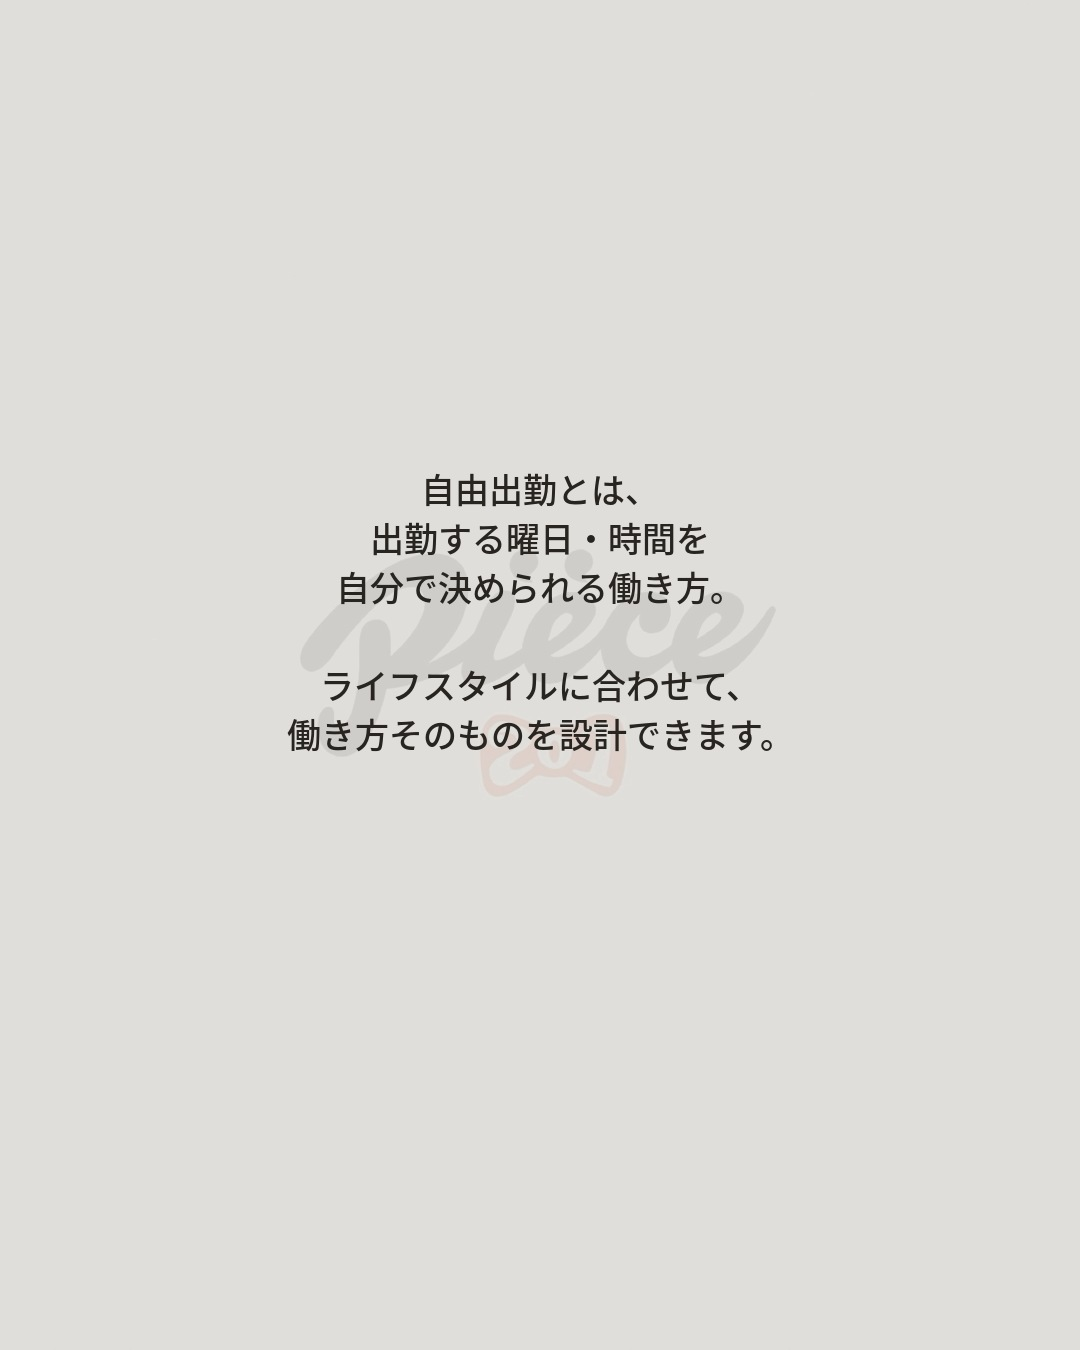
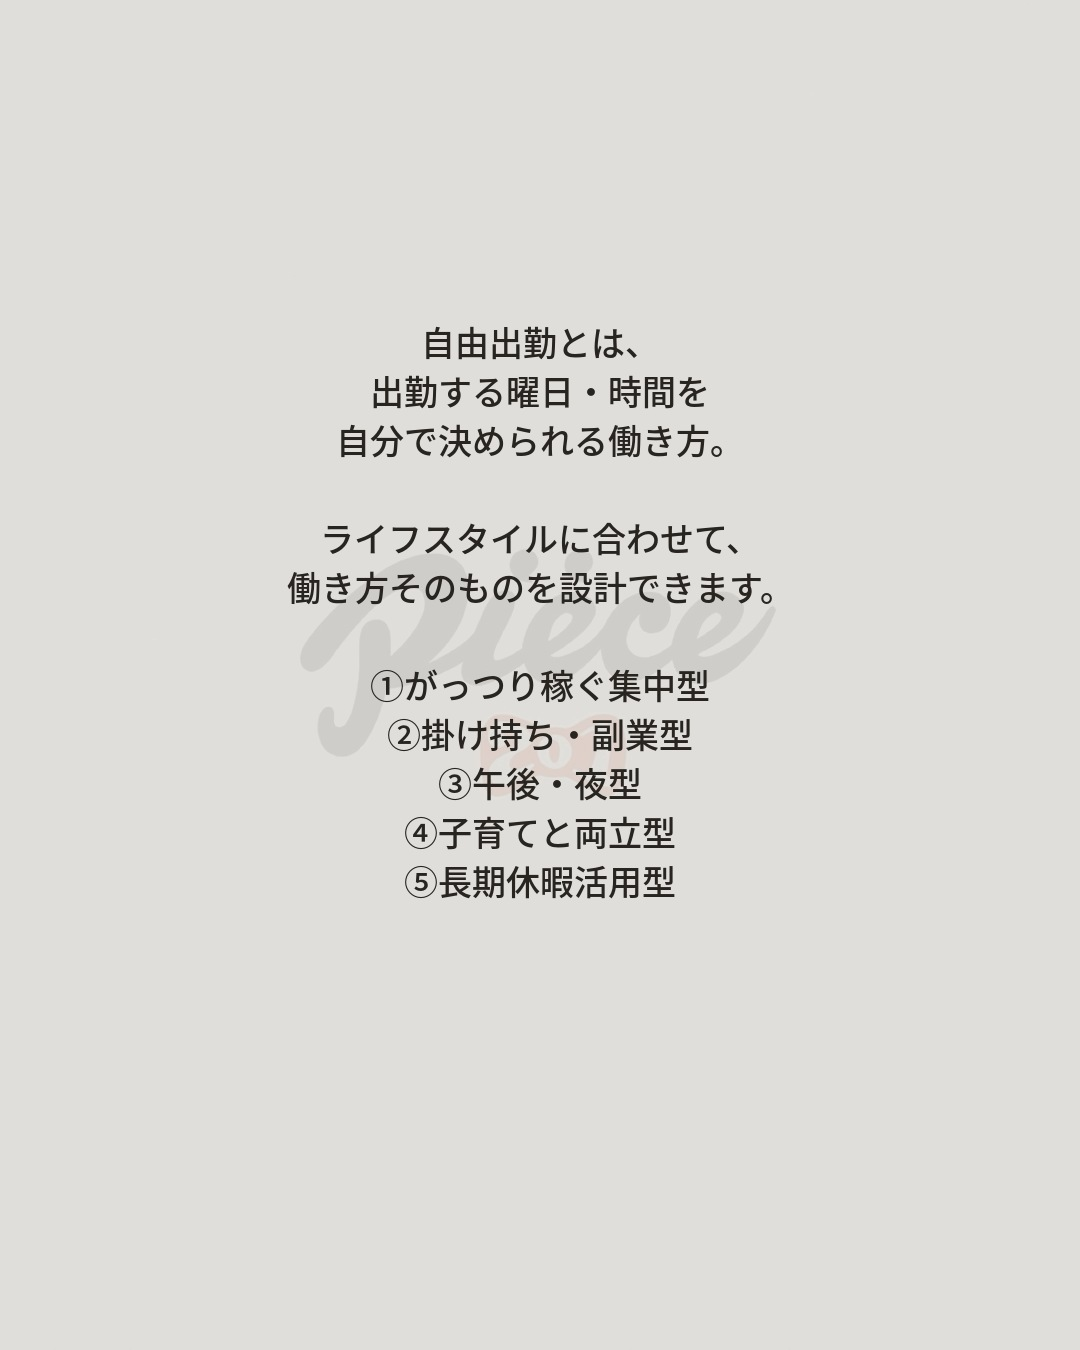
Finalize post9 as 5 patterns with a TOC intro and merged closing slide
Reworked from an initial 3-pattern draft after live discussion:
expanded to 5 work-style patterns (集中型/副業型/夜型/子育て両立型/
長期休暇活用型), added a table-of-contents list to both the intro
slide and the caption's intro paragraph, and merged the summary and
closing/DM slides into one per the new standing house rule. Recorded
both the TOC and merged-closing-slide conventions in the handover doc
for future posts.

Claude-Session: https://claude.ai/code/session_01Wzn5mgSD8aav1DWZhXqfkC

Changed region(s): [[0.275, 0.2489, 0.7028, 0.4667], [0.2444, 0.4978, 0.7028, 0.6844]]

diff --git a/scripts/generate_all_slides.py b/scripts/generate_all_slides.py
@@ -483,35 +483,37 @@ def build_post9(materials_dir=SRC, out_dir=OUT):
 
     # 背景生成
     make_cover_bg(beige_path, f"{out_dir}/post9_bg_cover.jpg")
-    for i in range(2, 8):
+    for i in range(2, 9):
         make_logo_bg(logo_path, base_shade=224, seed=i + 300,
                      out_path=f"{out_dir}/post9_bg_slide{i}.jpg")
 
     # 1枚目: 表紙
     draw_cover_slide(
         f"{out_dir}/post9_bg_cover.jpg", f"{out_dir}/post9_final_slide1.jpg",
-        ["自由出勤の働き方", "3つのリアル例"],
+        ["自由出勤の働き方", "5つのリアル例"],
         subtitle="piece201 / Nakameguro, Tokyo"
     )
 
-    # 2枚目: 導入
+    # 2枚目: 導入+目次
     draw_title_body_slide(
         f"{out_dir}/post9_bg_slide2.jpg", f"{out_dir}/post9_final_slide2.jpg",
         title=None,
         body_lines=[
             "自由出勤とは、", "出勤する曜日・時間を", "自分で決められる働き方。", "",
-            "ライフスタイルに合わせて、", "働き方そのものを設計できます。"
+            "ライフスタイルに合わせて、", "働き方そのものを設計できます。", "",
+            "①がっつり稼ぐ集中型", "②掛け持ち・副業型", "③午後・夜型",
+            "④子育てと両立型", "⑤長期休暇活用型"
         ],
         body_color=DARK
     )
 
-    # 3枚目: ①子育てと両立型
+    # 3枚目: ①がっつり稼ぐ集中型
     draw_title_body_slide(
         f"{out_dir}/post9_bg_slide3.jpg", f"{out_dir}/post9_final_slide3.jpg",
-        title="①子育てと両立型",
+        title="①がっつり稼ぐ集中型",
         body_lines=[
-            "月・水・金 9:00-13:00 出勤", "火・木・土日 お休み", "",
-            "保育園に預けている時間だけ働き、", "それ以外は家族の時間にあてるスタイル。"
+            "週6日、フルタイムで", "稼働するスタイル。", "",
+            "稼働日数を増やして、", "短期間で売上を伸ばしたい人向け。"
         ]
     )
 
@@ -520,38 +522,48 @@ def build_post9(materials_dir=SRC, out_dir=OUT):
         f"{out_dir}/post9_bg_slide4.jpg", f"{out_dir}/post9_final_slide4.jpg",
         title="②掛け持ち・副業型",
         body_lines=[
-            "月・火・木・金 出勤", "水 他サロンで勤務", "土日 お休み", "",
-            "複数の収入源を組み合わせて、", "1つのサロンに依存しないスタイル。"
+            "複数のサロンや副業と", "組み合わせるパターン。", "",
+            "週末だけ稼働する、", "週3日だけ固定で出勤するなど、",
+            "他の予定と組み合わせやすいのも", "自由出勤ならでは。"
         ]
     )
 
-    # 5枚目: ③がっつり稼ぐ集中型
+    # 5枚目: ③午後・夜型
     draw_title_body_slide(
         f"{out_dir}/post9_bg_slide5.jpg", f"{out_dir}/post9_final_slide5.jpg",
-        title="③がっつり稼ぐ集中型",
+        title="③午後・夜型",
         body_lines=[
-            "月〜土 10:00-19:00 出勤", "日 お休み", "",
-            "稼働日数を増やして、", "短期間で売上を伸ばしたい人向け。"
+            "朝はゆっくり、", "午後から夜にかけて", "稼働するスタイル。", "",
+            "自分の生活リズムに合わせて", "働く時間帯を選べます。"
         ]
     )
 
-    # 6枚目: まとめ
+    # 6枚目: ④子育てと両立型
     draw_title_body_slide(
         f"{out_dir}/post9_bg_slide6.jpg", f"{out_dir}/post9_final_slide6.jpg",
-        title=None,
+        title="④子育てと両立型",
         body_lines=[
-            "どのパターンが正解、", "というものはありません。", "",
-            "自分の生活・目標に合わせて", "働き方を設計できるのが、",
-            "自由出勤の一番の魅力です。"
-        ],
-        body_color=DARK
+            "月・水・金 9:00-13:00 出勤", "火・木・土日 お休み", "",
+            "保育園に預けている時間だけ働き、", "それ以外は家族の時間にあてるスタイル。"
+        ]
     )
 
-    # 7枚目: 締め
-    draw_closing_slide(
+    # 7枚目: ⑤長期休暇活用型
+    draw_title_body_slide(
         f"{out_dir}/post9_bg_slide7.jpg", f"{out_dir}/post9_final_slide7.jpg",
-        lead_lines=["自分に合った働き方、", "一緒に考えてみませんか。"],
-        body_lines=["出勤日数や時間帯の相談も", "気軽にしてください。"],
+        title="⑤長期休暇活用型",
+        body_lines=[
+            "稼働をまとめて調整すれば、", "1ヶ月休んで海外に研修に行ったり、",
+            "長期旅行を楽しんだりすることも可能。", "",
+            "決まった有給日数に縛られない、", "フリーランスならではの自由な休み方。"
+        ]
+    )
+
+    # 8枚目: まとめ+締め(1枚に統合)
+    draw_closing_slide(
+        f"{out_dir}/post9_bg_slide8.jpg", f"{out_dir}/post9_final_slide8.jpg",
+        lead_lines=["どのパターンが正解、", "というものはありません。"],
+        body_lines=["自分の生活に合わせて、", "働き方を設計できるのが一番の魅力です。"],
         dm_line="気になる方はDMで"
     )
 

diff --git a/docs/handover.md b/docs/handover.md
@@ -143,6 +143,8 @@
 - 縦位置は各行の高さを計算して積み上げる方式で決定する。手動の決め打ち数値による配置は禁止（重なり・ズレの原因になったため）
 - 1枚目の対比構造（例：雇用 VS フリーランス）は各要素を均等な間隔で配置する
 - スライド構成：1枚目＝ベージュレザーテクスチャ写真または店内写真、2枚目以降＝ロゴウォーターマーク入りグレー背景
+- **「まとめ」と「締め（DM CTA）」は1枚にまとめる**（2026-09-07以降の方針。別々の2枚にしない）
+- 複数の項目（①②③...）を扱う投稿では、導入スライドの最後に項目名だけを並べた簡易目次を入れる（キャプション側の導入文にも同じ目次を入れる）
 - **絵文字は画像内に描画すると「✕」の文字化けを起こすため使用しない**（フォントに絵文字グリフが含まれていないため）。キャプション本文中の絵文字はInstagram側で正常表示されるため問題なく使用する
 
 ### キャプション作成ルール
@@ -449,24 +451,38 @@ piece201では、こうした手続き面も一緒に考えながらサポート
 ```
 ※piece201は本文中で名指ししていないが、①〜⑤の各項目はpiece201が実際に満たしている条件（面貸し・新規集客なしの完全歩合70%・有名店経験のあるスタイリスト在籍・中目黒駅徒歩1分・税務社会保険サポートあり）に自然と重なる書き方にしている（10章の方針に基づく）。
 
-### 9本目：自由出勤の働き方、3つのリアル例（Claude Codeで新規作成・画像・キャプション完成、投稿は未実施）
+### 9本目：自由出勤の働き方、5つのリアル例（Claude Codeで新規作成・画像・キャプション完成、投稿は未実施・確認待ち）
 ```
-【自由出勤の働き方、3つのリアル例📅】
+【自由出勤の働き方、5つのリアル例📅】
 
 自由出勤とは、出勤する曜日・時間を自分で決められる働き方。
 会社員のような固定シフトはなく、ライフスタイルに合わせて働き方そのものを設計できます。
 
-①子育てと両立型
-月・水・金の午前中(9:00-13:00)に集中して出勤。
-保育園に預けている時間だけ働き、それ以外は家族の時間にあてるスタイル。
+①がっつり稼ぐ集中型
+②掛け持ち・副業型
+③午後・夜型
+④子育てと両立型
+⑤長期休暇活用型
+
+①がっつり稼ぐ集中型
+週6日、フルタイムで稼働するスタイル。
+稼働日数を増やして、短期間で売上を伸ばしたい人向け。
 
 ②掛け持ち・副業型
 複数のサロンや副業と組み合わせるパターン。
-収入源を分散できるので、1つのサロンに依存しないリスク管理にもなります。
+週末だけ稼働する、週3日だけ固定で出勤するなど、他の予定と組み合わせやすいのも自由出勤ならでは。
 
-③がっつり稼ぐ集中型
-週6日、フルタイムで稼働するスタイル。
-稼働日数を増やして、短期間で売上を伸ばしたい人向け。
+③午後・夜型
+朝はゆっくり、午後から夜にかけて稼働するスタイル。
+自分の生活リズムに合わせて働く時間帯を選べます。
+
+④子育てと両立型
+月・水・金の午前中(9:00-13:00)に集中して出勤。
+保育園に預けている時間だけ働き、それ以外は家族の時間にあてるスタイル。
+
+⑤長期休暇活用型
+稼働をまとめて調整すれば、1ヶ月休んで海外に研修に行ったり、長期旅行を楽しんだりすることも可能。
+決まった有給日数に縛られない、フリーランスならではの自由な休み方。
 
 どのパターンが正解、というものはありません。
 自分の生活・目標に合わせて働き方を設計できるのが、自由出勤の一番の魅力です。
@@ -493,7 +509,7 @@ piece201では、こうした手続き面も一緒に考えながらサポート
 - **6本目（7枚）**：表紙／導入／①開業届／②所得税確定申告／③経費とは／④知らないと損すること／締め
 - **7本目（8枚）**：表紙／導入／①美容師国保組合／②国民健康保険／③社会保険／国民年金の手続き／国民年金の金額・将来性／締め
 - **8本目（8枚）**：表紙／導入／①契約内容の明確さ／②集客サポートの有無／③技術レベル・雰囲気／④設備・立地／⑤税務・保険サポート／締め
-- **9本目（7枚）**：表紙／導入／①子育てと両立型／②掛け持ち・副業型／③がっつり稼ぐ集中型／まとめ／締め
+- **9本目（8枚）**：表紙／導入+目次／①がっつり稼ぐ集中型／②掛け持ち・副業型／③午後・夜型／④子育てと両立型／⑤長期休暇活用型／まとめ+締め（1枚に統合）
 
 画像生成に使ったPython（PIL/Pillow）スクリプトと素材画像は、リポジトリ内 `scripts/generate_all_slides.py` ＋ `assets/materials/` に保存済み（`build_post7()` / `build_post8()` / `build_post9()` として実装。同じレイアウト用の共通関数群を再利用しているため、10本目以降も同じ関数の組み合わせで追加できる）。
 
